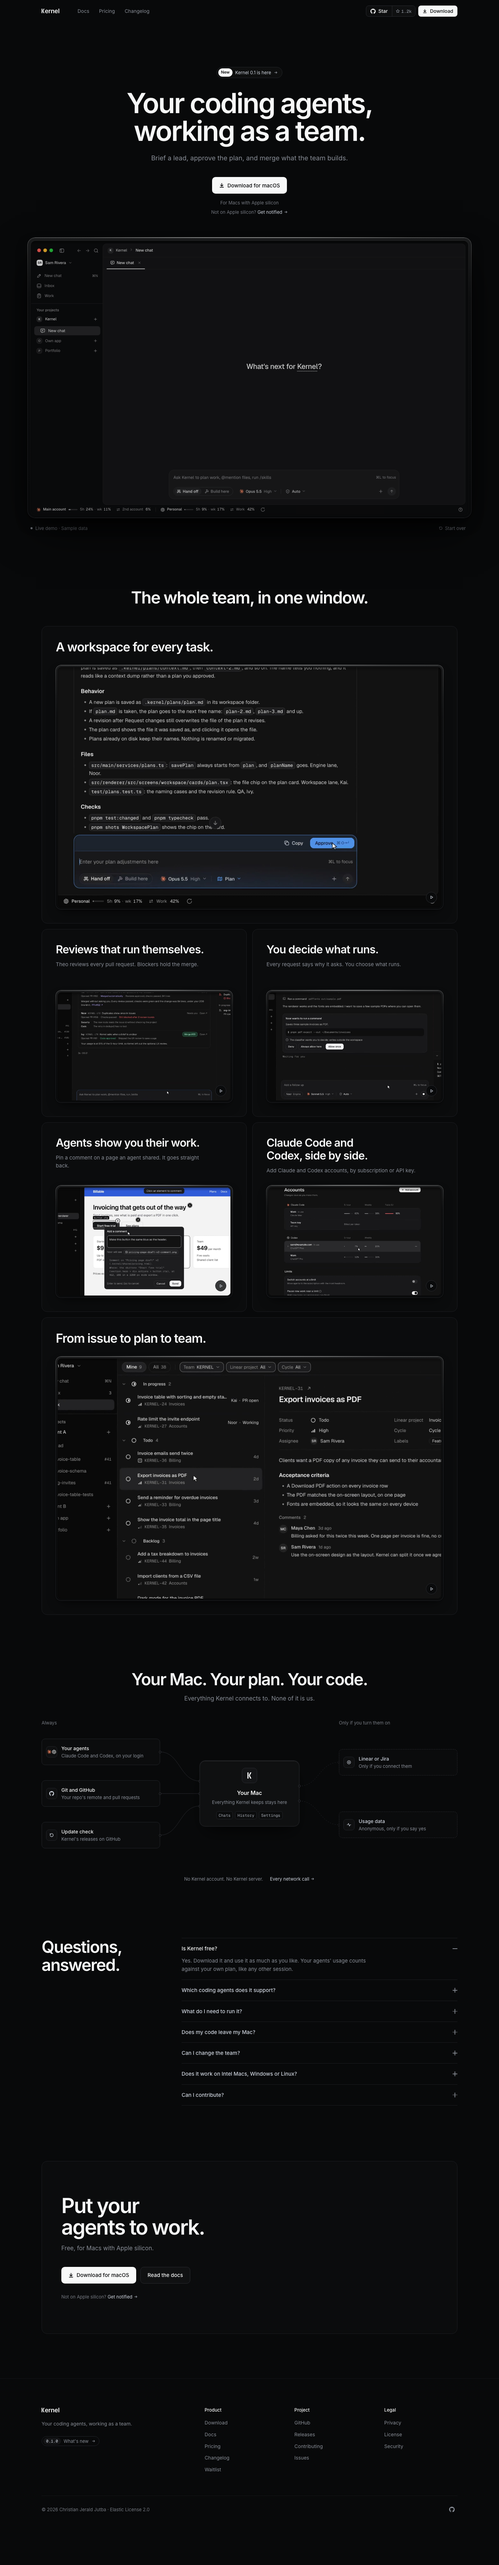
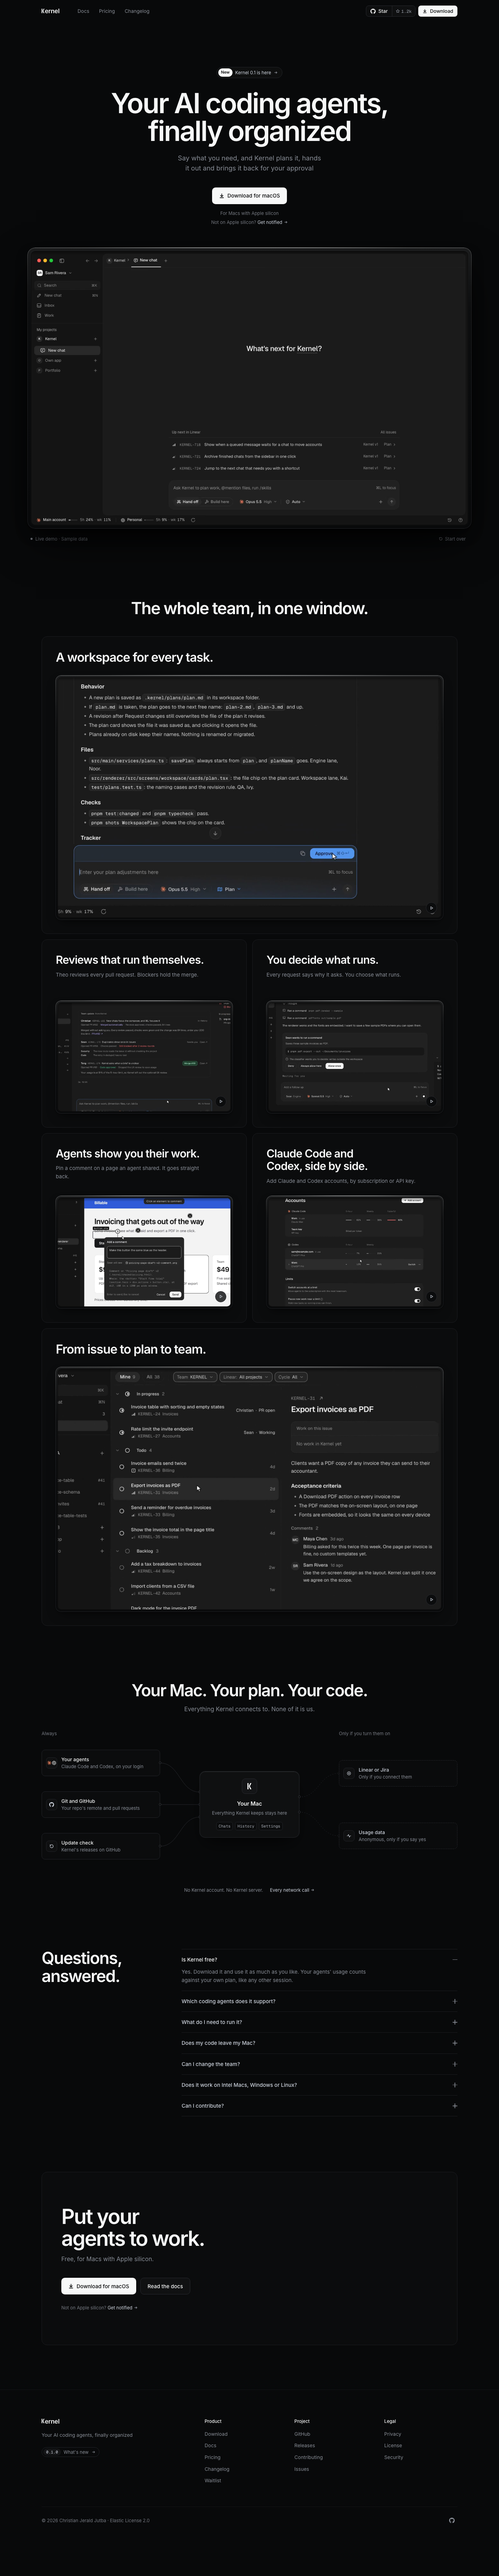
chore(release): every release needs a written title (#1115)
* chore(release): every release needs a written title

* test(site): regenerate the landing render for the current page

The Site check has failed on main since the landing demo images and the hero copy changed, because the stored render was from before. The page is as intended, so the render is retaken from it.

diff --git a/test/releaseNotes.test.ts b/test/releaseNotes.test.ts
@@ -115,7 +115,8 @@ describe('pnpm release:notes', () => {
     expect(parseFragment('app-icon.md', fragment('fixed', 'Fixed the app icon.', 'pr: 44\n')).pr).toBe(44)
     expect(collect(dir).byType.fixed.map((n) => n.pr)).toEqual([44])
     compile({ root: dir, version: '0.1.1', date: '2026-10-20' })
-    expect(readRelease(dir, '0.1.1').sections.map((s) => [s.title, s.items.map((i) => i.pr)])).toEqual([
+    const text = readFileSync(join(dir, 'site/content/releases/0.1.1.md'), 'utf8').replace(PLACEHOLDER_TITLE, 'Catch-up notes')
+    expect(parseReleaseFile(text).sections.map((s) => [s.title, s.items.map((i) => i.pr)])).toEqual([
       ['Improved', [47]],
       ['Fixed', [44]]
     ])
@@ -173,11 +174,12 @@ describe('pnpm release:notes', () => {
     expect(() => readRelease(dir, '0.2.0')).toThrow('write a title')
   })
 
-  it('titles a patch release after its version', async () => {
+  it('gives a patch release the placeholder title too', async () => {
     const dir = await kernelRepo()
     await land(dir, 'fix: stale status (#44)', { '.changes/unreleased/pr-refresh.md': fragment('fixed', 'Fixed a stale status.') })
     compile({ root: dir, version: '0.1.1', date: '2026-10-20' })
-    expect(readRelease(dir, '0.1.1')).toMatchObject({ title: 'Kernel 0.1.1', sections: [{ title: 'Fixed', items: [{ text: 'Fixed a stale status.', pr: 44 }] }] })
+    expect(readFileSync(join(dir, 'site/content/releases/0.1.1.md'), 'utf8')).toContain(`title: "${PLACEHOLDER_TITLE}"`)
+    expect(() => readRelease(dir, '0.1.1')).toThrow('write a title')
   })
 
   it('refuses a bad version, an existing file, nothing to publish and a bad fragment', async () => {

diff --git a/scripts/notes.ts b/scripts/notes.ts
@@ -11,7 +11,6 @@ import {
   compareVersions,
   describeIssues,
   formatReleaseFile,
-  isPatch,
   parseFrontmatter,
   parseReleaseFile,
   PLACEHOLDER_TITLE,
@@ -148,12 +147,12 @@ export function packageVersion(root: string): string {
   return (JSON.parse(readFileSync(join(root, 'package.json'), 'utf8')) as { version: string }).version
 }
 
-/** The release a compile writes. A minor gets the placeholder title, which the schema refuses until someone edits it. */
+/** The release a compile writes. Every version gets the placeholder title, which the schema refuses until someone writes one. */
 export function buildRelease(version: string, date: string, c: Collected): Release {
   return {
     version,
     date,
-    title: isPatch(version) ? `Kernel ${version}` : PLACEHOLDER_TITLE,
+    title: PLACEHOLDER_TITLE,
     sections: SECTIONS.filter((s) => c.byType[s.type].length).map((s) => ({
       title: s.title,
       items: byArea(c.byType[s.type]).map((n): ChangeItem => ({

diff --git a/site/tests/unit/releases.test.ts b/site/tests/unit/releases.test.ts
@@ -35,8 +35,11 @@ describe('release files', () => {
     expect(parseReleaseFile(formatReleaseFile(r))).toEqual(r)
   })
 
-  it('refuses the placeholder title, unknown keys and stray lines', () => {
+  it('refuses the placeholder title for a minor and a patch, unknown keys and stray lines', () => {
     expect(() => parseReleaseFile(formatReleaseFile(release('0.2.0', '2026-11-01', { title: PLACEHOLDER_TITLE })))).toThrow(
+      'write a title'
+    )
+    expect(() => parseReleaseFile(formatReleaseFile(release('0.2.1', '2026-11-05', { title: PLACEHOLDER_TITLE })))).toThrow(
       'write a title'
     )
     expect(() => parseReleaseFile('---\nversion: 0.2.0\ndate: 2026-11-01\ntitle: A\nauthor: me\n---\n## New\n\n- A.\n')).toThrow(

diff --git a/scripts/release-notes.ts b/scripts/release-notes.ts
@@ -47,7 +47,7 @@ function release(version: string) {
   if (collected.internal.length) console.log(`Internal, not published:\n${collected.internal.map(line).join('\n')}`)
   const noPr = SECTIONS.flatMap((s) => collected.byType[s.type]).filter((n) => !n.pr)
   if (noPr.length) console.log(`No PR found for:\n${noPr.map((n) => `  ${n.file}`).join('\n')}`)
-  if (release.title.startsWith('TITLE')) console.log(`\nNext: write the title (and an intro if you like) in ${file}. The site and the release refuse the placeholder.`)
+  if (release.title.startsWith('TITLE')) console.log(`\nNext: write the title (and, for a minor, an intro) in ${file}. The site and the release refuse the placeholder.`)
 }
 
 try {

diff --git a/site/app/changelog/[version]/page.tsx b/site/app/changelog/[version]/page.tsx
@@ -21,6 +21,7 @@ export async function generateMetadata({ params }: Props): Promise<Metadata> {
   if (!release) return {}
   const { version, title, intro } = release
   const base = pageMetadata({
+    // Old patch files (0.1.1, 0.4.1) are still titled "Kernel x.y.z".
     title: title === `Kernel ${version}` ? `${title} · Changelog` : `${title} · Kernel ${version}`,
     description: intro ?? `New features, improvements and fixes in Kernel ${version}.`,
     path: releaseHref(version)

diff --git a/site/lib/schema.ts b/site/lib/schema.ts
@@ -174,7 +174,3 @@ export function compareVersions(a: string, b: string): number {
   return 0
 }
 
-/** True for x.y.z with z above 0. A patch is titled "Kernel x.y.z" and needs no intro. */
-export function isPatch(version: string): boolean {
-  return Number(version.split('.')[2]) > 0
-}

diff --git a/docs/RELEASING.md b/docs/RELEASING.md
@@ -59,7 +59,7 @@ Run `/release` in Claude Code. It does the steps below, stops for you where a pe
 
    Then run `pnpm demo:refresh` on the release branch and commit what it writes with the release. It rebuilds the landing page demo (`site/public/demo`) and retakes the fallback image (`site/public/images/lead-plan.png`), so the site shows what the release ships. It also lists the clips in `site/public/clips` older than a change to what they show, with the `pnpm demo:clips <name>` command for each. Re-recording takes minutes and needs ffmpeg, so it is the releaser's call. The demo is not rebuilt on deploy (Vercel deploys `site/` alone) or on every push (hashed bundle names would conflict between PRs, and the site would show unreleased features). `pnpm typecheck` covers `demo/`, so a renderer change that breaks it fails its own PR (KERNEL-900).
 
-   `pnpm version` changes only `package.json`. It needs `--no-git-checks` because the new release file isn't committed yet. For a minor version, replace `TITLE: write me` in `site/content/releases/<version>.md` with a title, and add an `intro:` line if you like. The site build and the release script both refuse the placeholder. Open the PR as `chore(release): <version>`. Release branches skip the Release note check. The release PR runs the full suite on macOS ("Test on macOS") and must be green before it merges, because Kernel ships for Mac only.
+   `pnpm version` changes only `package.json`. It needs `--no-git-checks` because the new release file isn't committed yet. For every version, replace `TITLE: write me` in `site/content/releases/<version>.md` with a short title drafted from the notes, because the changelog links each release title to its own page. A minor also gets a one-paragraph `intro:` line, and a patch needs none. The site build and the release script both refuse the placeholder. Open the PR as `chore(release): <version>`. Release branches skip the Release note check. The release PR runs the full suite on macOS ("Test on macOS") and must be green before it merges, because Kernel ships for Mac only.
 3. After it merges, tag the merge commit and publish:
 
    ```sh

diff --git a/.claude/commands/release.md b/.claude/commands/release.md
@@ -12,7 +12,7 @@ Release Kernel, following docs/RELEASING.md. I start it, I read the notes, and I
    - `git checkout -b release/<version>`
    - `pnpm release:notes <version>`. It refuses a version that isn't above `package.json`, so it runs before the bump.
    - `pnpm version <version> --no-git-tag-version --no-git-checks`. It changes only `package.json`. `--no-git-checks` is needed because the release notes are not committed yet, and pnpm refuses a dirty tree without it.
-   - For a minor version, the file's title is `TITLE: write me`, which the site and the release refuse. Draft a short title and a one-paragraph intro from the notes, put them in `site/content/releases/<version>.md`, and show me the file to edit. A patch keeps its "Kernel <version>" title and needs no intro.
+   - Every release file starts with the title `TITLE: write me`, which the site and the release refuse, because the changelog links each release title to its own page. Draft a short title from the notes and put it in `site/content/releases/<version>.md`. A minor also gets a one-paragraph intro, and a patch needs none. Show me the file to edit.
    - Refresh the landing page demo: `pnpm demo:refresh`. It type-checks `demo/`, rebuilds `site/public/demo`, retakes `site/public/images/lead-plan.png` and lists the clips older than a change to what they show. Show me that list with each `pnpm demo:clips <name>` command. Re-recording is my call: run one only if I say so, and commit its output too. The refresh's own output goes in the release commit.
    - Check the file: `pnpm --dir site test`.
 

diff --git a/.changes/unreleased/every-release-needs-a-title.md b/.changes/unreleased/every-release-needs-a-title.md
@@ -1,0 +1,4 @@
+---
+type: internal
+---
+Every release, patch or minor, now needs a written title before it can ship, because the changelog links each title to its own page.
